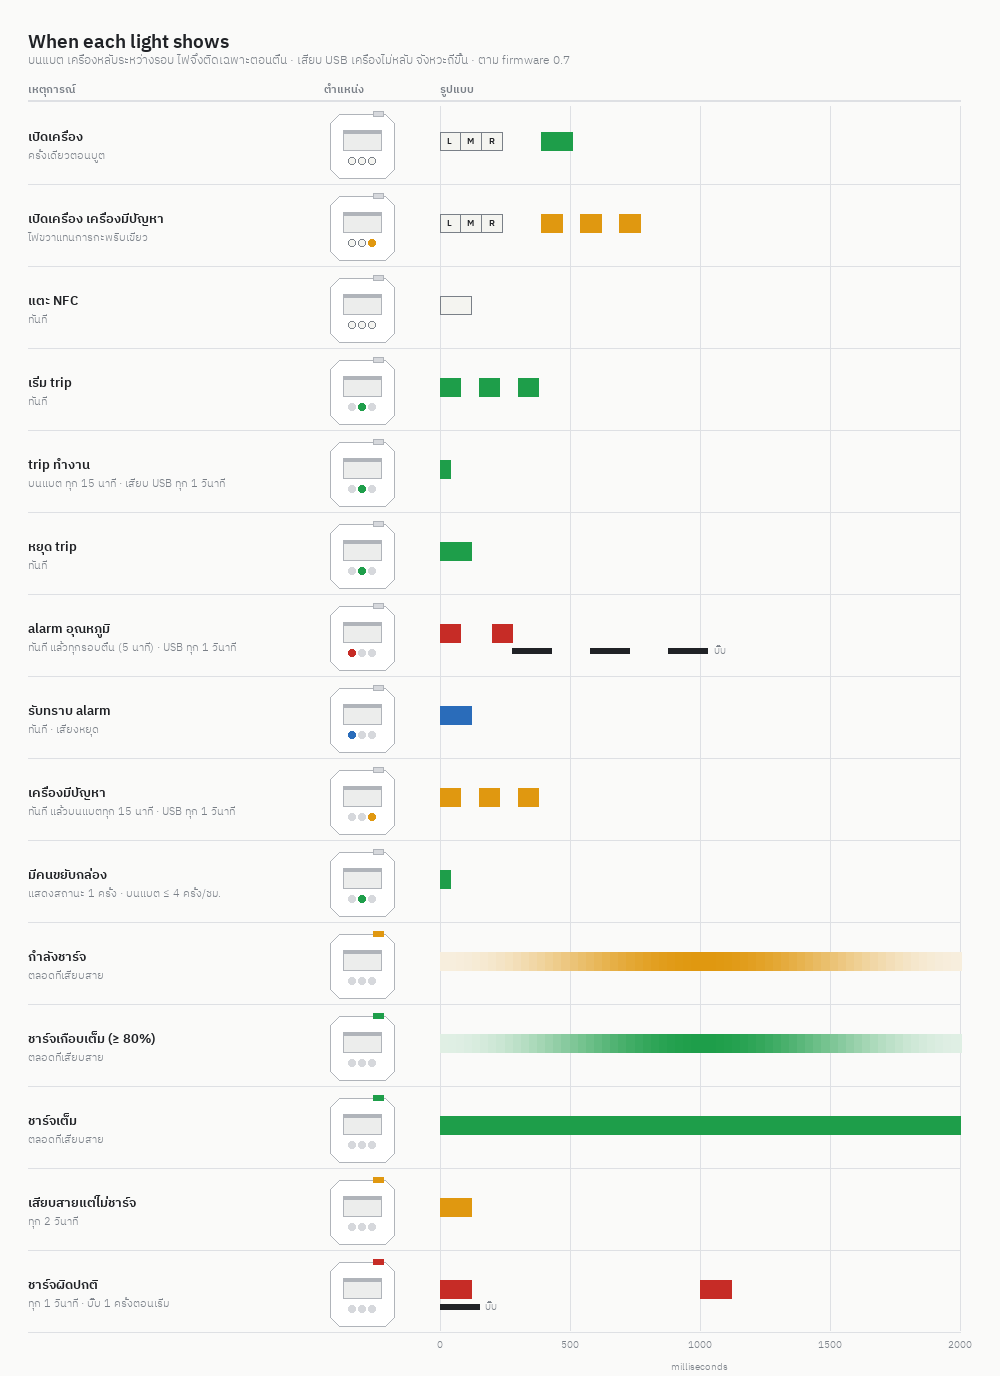
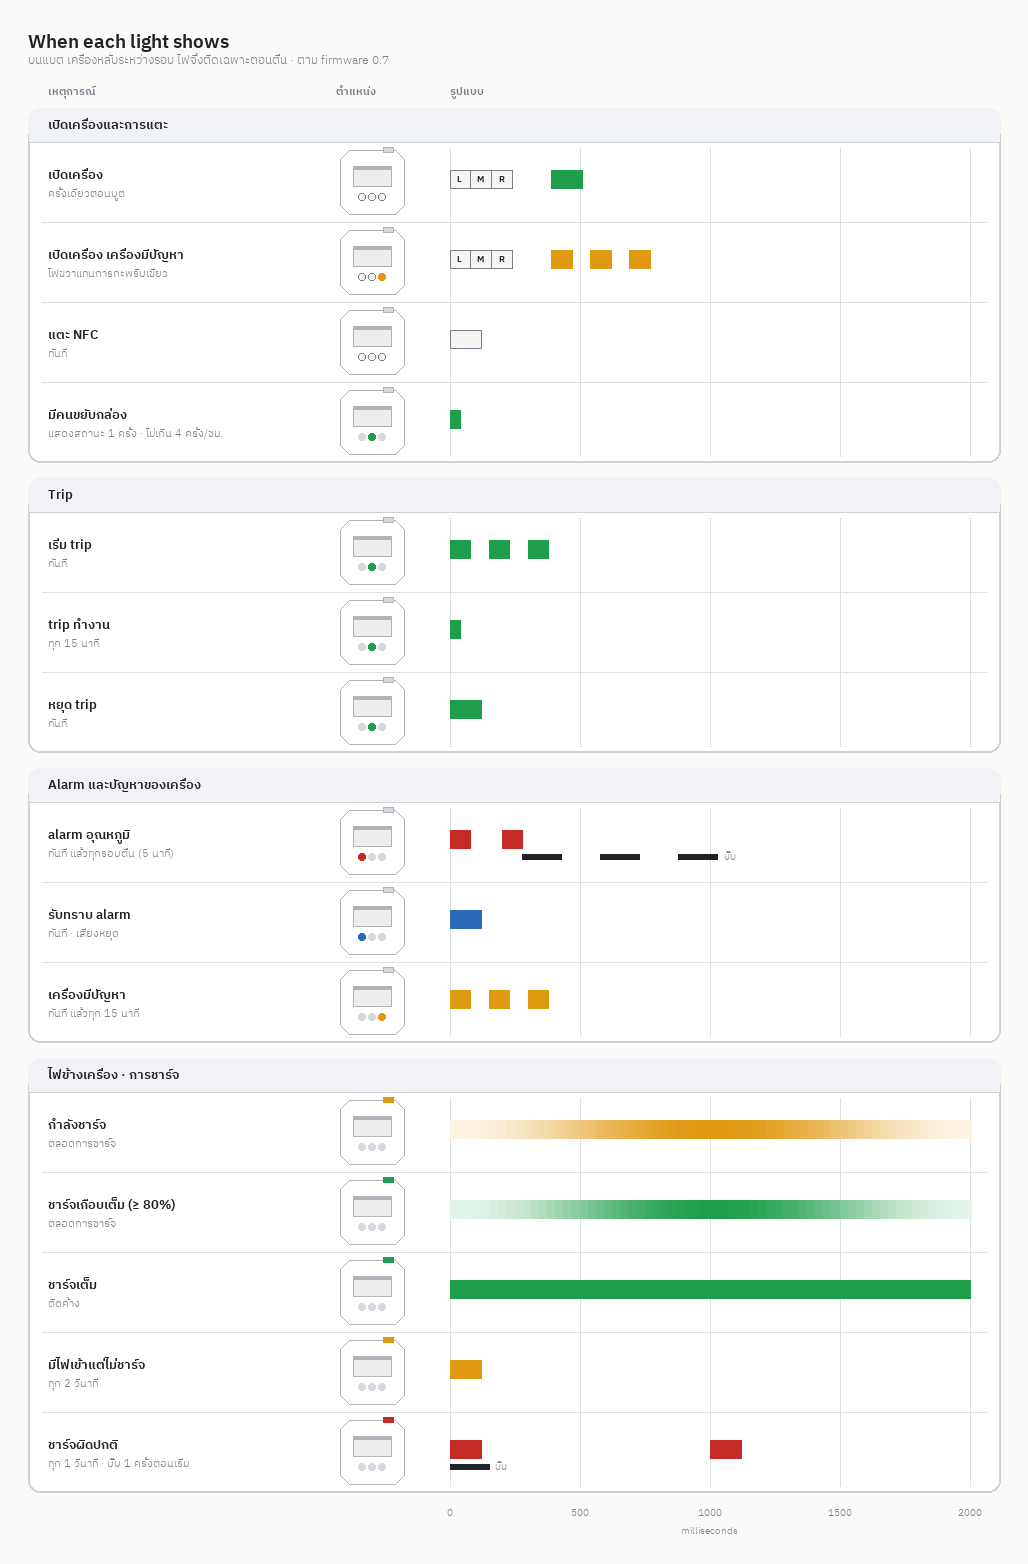
led-mock: led_states in framed sections, battery behaviour only
Four sections -- switching on and taps, trip, alarms and device
problems, side light and charging -- each in its own frame with a
heading. The USB-power rhythms are left out: the chart shows what a
person sees on a box running on its battery.

diff --git a/led-mock/patterns.py b/led-mock/patterns.py
@@ -147,7 +147,7 @@ def led_map():
     return img
 
 
-# One row per event. `lit` is which lights show, by position: L, M, R on
+# Rows grouped into framed sections. `lit` is which lights show, by position: L, M, R on
 # the front, S the side light (on the top edge, towards the right).
 # `bars` is the timeline as (start ms, length ms, colour, mark); `beeps`
 # the buzzer, as (start ms, length ms). From indicate.cpp: boot_cue is the
@@ -162,30 +162,36 @@ def bars(spans, colour):
     return [(t, n, colour, "") for t, n in spans]
 
 
-STATES = [
-    ("เปิดเครื่อง", "ครั้งเดียวตอนบูต", {"L": WHITE, "M": WHITE, "R": WHITE},
-     SWEEP + [(390, 120, GREEN, "")], []),
-    ("เปิดเครื่อง เครื่องมีปัญหา", "ไฟขวาแทนการกะพริบเขียว", {"L": WHITE, "M": WHITE, "R": AMBER},
-     SWEEP + bars([(390 + t, n) for t, n in TRIPLE], AMBER), []),
-    ("แตะ NFC", "ทันที", {"L": WHITE, "M": WHITE, "R": WHITE},
-     [(0, 120, WHITE, "")], []),
-    ("เริ่ม trip", "ทันที", {"M": GREEN}, bars(TRIPLE, GREEN), []),
-    ("trip ทำงาน", "บนแบต ทุก 15 นาที · เสียบ USB ทุก 1 วินาที", {"M": GREEN},
-     [(0, 40, GREEN, "")], []),
-    ("หยุด trip", "ทันที", {"M": GREEN}, [(0, 120, GREEN, "")], []),
-    ("alarm อุณหภูมิ", "ทันที แล้วทุกรอบตื่น (5 นาที) · USB ทุก 1 วินาที", {"L": RED},
-     bars(DOUBLE, RED), [(280, 150), (580, 150), (880, 150)]),
-    ("รับทราบ alarm", "ทันที · เสียงหยุด", {"L": BLUE}, [(0, 120, BLUE, "")], []),
-    ("เครื่องมีปัญหา", "ทันที แล้วบนแบตทุก 15 นาที · USB ทุก 1 วินาที", {"R": AMBER},
-     bars(TRIPLE, AMBER), []),
-    ("มีคนขยับกล่อง", "แสดงสถานะ 1 ครั้ง · บนแบต ≤ 4 ครั้ง/ชม.", {"M": GREEN},
-     [(0, 40, GREEN, "")], []),
-    ("กำลังชาร์จ", "ตลอดที่เสียบสาย", {"S": AMBER}, [(0, 2000, AMBER, "breathe")], []),
-    ("ชาร์จเกือบเต็ม (≥ 80%)", "ตลอดที่เสียบสาย", {"S": GREEN}, [(0, 2000, GREEN, "breathe")], []),
-    ("ชาร์จเต็ม", "ตลอดที่เสียบสาย", {"S": GREEN}, [(0, 2000, GREEN, "")], []),
-    ("เสียบสายแต่ไม่ชาร์จ", "ทุก 2 วินาที", {"S": AMBER}, [(0, 120, AMBER, "")], []),
-    ("ชาร์จผิดปกติ", "ทุก 1 วินาที · บี๊บ 1 ครั้งตอนเริ่ม", {"S": RED},
-     [(0, 120, RED, ""), (1000, 120, RED, "")], [(0, 150)]),
+SECTIONS = [
+    ("เปิดเครื่องและการแตะ", [
+        ("เปิดเครื่อง", "ครั้งเดียวตอนบูต", {"L": WHITE, "M": WHITE, "R": WHITE},
+         SWEEP + [(390, 120, GREEN, "")], []),
+        ("เปิดเครื่อง เครื่องมีปัญหา", "ไฟขวาแทนการกะพริบเขียว", {"L": WHITE, "M": WHITE, "R": AMBER},
+         SWEEP + bars([(390 + t, n) for t, n in TRIPLE], AMBER), []),
+        ("แตะ NFC", "ทันที", {"L": WHITE, "M": WHITE, "R": WHITE},
+         [(0, 120, WHITE, "")], []),
+        ("มีคนขยับกล่อง", "แสดงสถานะ 1 ครั้ง · ไม่เกิน 4 ครั้ง/ชม.", {"M": GREEN},
+         [(0, 40, GREEN, "")], []),
+    ]),
+    ("Trip", [
+        ("เริ่ม trip", "ทันที", {"M": GREEN}, bars(TRIPLE, GREEN), []),
+        ("trip ทำงาน", "ทุก 15 นาที", {"M": GREEN}, [(0, 40, GREEN, "")], []),
+        ("หยุด trip", "ทันที", {"M": GREEN}, [(0, 120, GREEN, "")], []),
+    ]),
+    ("Alarm และปัญหาของเครื่อง", [
+        ("alarm อุณหภูมิ", "ทันที แล้วทุกรอบตื่น (5 นาที)", {"L": RED},
+         bars(DOUBLE, RED), [(280, 150), (580, 150), (880, 150)]),
+        ("รับทราบ alarm", "ทันที · เสียงหยุด", {"L": BLUE}, [(0, 120, BLUE, "")], []),
+        ("เครื่องมีปัญหา", "ทันที แล้วทุก 15 นาที", {"R": AMBER}, bars(TRIPLE, AMBER), []),
+    ]),
+    ("ไฟข้างเครื่อง · การชาร์จ", [
+        ("กำลังชาร์จ", "ตลอดการชาร์จ", {"S": AMBER}, [(0, 2000, AMBER, "breathe")], []),
+        ("ชาร์จเกือบเต็ม (≥ 80%)", "ตลอดการชาร์จ", {"S": GREEN}, [(0, 2000, GREEN, "breathe")], []),
+        ("ชาร์จเต็ม", "ติดค้าง", {"S": GREEN}, [(0, 2000, GREEN, "")], []),
+        ("มีไฟเข้าแต่ไม่ชาร์จ", "ทุก 2 วินาที", {"S": AMBER}, [(0, 120, AMBER, "")], []),
+        ("ชาร์จผิดปกติ", "ทุก 1 วินาที · บี๊บ 1 ครั้งตอนเริ่ม", {"S": RED},
+         [(0, 120, RED, ""), (1000, 120, RED, "")], [(0, 150)]),
+    ]),
 ]
 
 UNLIT = (214, 216, 220)
@@ -214,58 +220,72 @@ def device(d, x, y, lit):
 
 def states():
     SPAN_S = 2000
-    ev_x, dev_x, tl_x, tl_w = 28, 330, 440, 520
-    row_h, top = 82, 106
-    h = top + row_h * len(STATES) + 40
-    img = Image.new("RGB", (tl_x + tl_w + 40, h), PAPER)
+    x_l, x_r = 28, 1000              # the frames
+    ev_x, dev_x, tl_x, tl_w = 48, 340, 450, 520
+    row_h, head_h, gap = 80, 34, 16
+    n_rows = sum(len(rows) for _, rows in SECTIONS)
+    top = 108
+    h = top + n_rows * row_h + len(SECTIONS) * (head_h + gap) + 56
+    img = Image.new("RGB", (x_r + 28, h), PAPER)
     d = ImageDraw.Draw(img)
     d.text((28, 26), "When each light shows", font=font("SemiBold", 19), fill=INK)
-    d.text((28, 50), "บนแบต เครื่องหลับระหว่างรอบ ไฟจึงติดเฉพาะตอนตื่น · เสียบ USB เครื่องไม่หลับ จังหวะถี่ขึ้น · ตาม firmware 0.7",
+    d.text((28, 50), "บนแบต เครื่องหลับระหว่างรอบ ไฟจึงติดเฉพาะตอนตื่น · ตาม firmware 0.7",
            font=font("Light", 12), fill=MUTED)
-    for x, t in ((ev_x, "เหตุการณ์"), (dev_x - 6, "ตำแหน่ง"), (tl_x, "รูปแบบ")):
-        d.text((x, 80), t, font=font("SemiBold", 11), fill=MUTED)
-    d.line([(28, 100), (tl_x + tl_w, 100)], fill=GRID, width=2)
+    for x, t in ((ev_x, "เหตุการณ์"), (dev_x - 4, "ตำแหน่ง"), (tl_x, "รูปแบบ")):
+        d.text((x, 82), t, font=font("SemiBold", 11), fill=MUTED)
+
+    y = top
+    for title, rows in SECTIONS:
+        box_h = head_h + len(rows) * row_h
+        d.rounded_rectangle([(x_l, y), (x_r, y + box_h)], 12, fill=(255, 255, 255),
+                            outline=(206, 209, 214), width=2)
+        d.rounded_rectangle([(x_l, y), (x_r, y + head_h)], 12, fill=(240, 242, 245))
+        d.rectangle([(x_l + 1, y + head_h - 12), (x_r - 1, y + head_h)], fill=(240, 242, 245))
+        d.line([(x_l, y + head_h), (x_r, y + head_h)], fill=(206, 209, 214), width=1)
+        d.text((ev_x, y + head_h / 2), title, font=font("SemiBold", 13), fill=INK, anchor="lm")
+        # time grid inside the frame
+        for ms in range(0, SPAN_S + 1, 500):
+            x = tl_x + tl_w * ms / SPAN_S
+            d.line([(x, y + head_h + 6), (x, y + box_h - 6)], fill=GRID)
+        ry = y + head_h
+        for i, (ev, when, lit, seq, beeps) in enumerate(rows):
+            if i:
+                d.line([(x_l + 14, ry), (x_r - 14, ry)], fill=GRID)
+            d.text((ev_x, ry + 22), ev, font=font("SemiBold", 13), fill=INK)
+            d.text((ev_x, ry + 42), when, font=font("Light", 11), fill=MUTED)
+            device(d, dev_x, ry + 8, lit)
+            by = ry + 28
+            for t0, n, col, mark in seq:
+                x0 = tl_x + tl_w * t0 / SPAN_S
+                x1 = tl_x + tl_w * min(t0 + n, SPAN_S) / SPAN_S
+                if mark == "breathe":
+                    steps = 64
+                    for s_ in range(steps):
+                        level = 0.12 + 0.88 * 0.5 * (1 - math.cos(2 * math.pi * s_ / steps))
+                        bx0 = x0 + (x1 - x0) * s_ / steps
+                        bx1 = x0 + (x1 - x0) * (s_ + 1) / steps + 1
+                        bar = tuple(round(p + (255 - p) * (1 - level)) for p in col)
+                        d.rectangle([(bx0, by), (bx1, by + 18)], fill=bar)
+                else:
+                    d.rectangle([(x0, by), (max(x1, x0 + 2), by + 18)], fill=col,
+                                outline=MUTED if col is WHITE else None)
+                    if mark:
+                        d.text(((x0 + x1) / 2, by + 9), mark, font=font("SemiBold", 9),
+                               fill=INK, anchor="mm")
+            for t0, n in beeps:
+                x0 = tl_x + tl_w * t0 / SPAN_S
+                x1 = tl_x + tl_w * (t0 + n) / SPAN_S
+                d.rectangle([(x0, by + 24), (x1, by + 29)], fill=INK)
+            if beeps:
+                x_end = tl_x + tl_w * (beeps[-1][0] + beeps[-1][1]) / SPAN_S
+                d.text((x_end + 6, by + 27), "บี๊บ", font=font("Light", 10), fill=MUTED, anchor="lm")
+            ry += row_h
+        y += box_h + gap
 
     for ms in range(0, SPAN_S + 1, 500):
         x = tl_x + tl_w * ms / SPAN_S
-        d.line([(x, top), (x, top + row_h * len(STATES) - 6)], fill=GRID)
-        d.text((x, top + row_h * len(STATES)), f"{ms}", font=font("Light", 10),
-               fill=MUTED, anchor="ma")
-    d.text((tl_x + tl_w / 2, h - 18), "milliseconds", font=font("Light", 10),
-           fill=MUTED, anchor="ma")
-
-    for i, (ev, when, lit, seq, beeps) in enumerate(STATES):
-        y = top + i * row_h
-        d.text((ev_x, y + 20), ev, font=font("SemiBold", 13), fill=INK)
-        d.text((ev_x, y + 40), when, font=font("Light", 11), fill=MUTED)
-        device(d, dev_x, y + 8, lit)
-        by = y + 26                                  # the bar's top
-        for t0, n, col, mark in seq:
-            x0 = tl_x + tl_w * t0 / SPAN_S
-            x1 = tl_x + tl_w * min(t0 + n, SPAN_S) / SPAN_S
-            if mark == "breathe":
-                steps = 64
-                for s_ in range(steps):
-                    level = 0.12 + 0.88 * 0.5 * (1 - math.cos(2 * math.pi * s_ / steps))
-                    bx0 = x0 + (x1 - x0) * s_ / steps
-                    bx1 = x0 + (x1 - x0) * (s_ + 1) / steps + 1
-                    bar = tuple(round(p + (PAPER[j] - p) * (1 - level)) for j, p in enumerate(col))
-                    d.rectangle([(bx0, by), (bx1, by + 18)], fill=bar)
-            else:
-                d.rectangle([(x0, by), (max(x1, x0 + 2), by + 18)], fill=col,
-                            outline=MUTED if col is WHITE else None)
-                if mark:
-                    d.text(((x0 + x1) / 2, by + 9), mark, font=font("SemiBold", 9),
-                           fill=INK, anchor="mm")
-        for t0, n in beeps:                          # the buzzer, under the bar
-            x0 = tl_x + tl_w * t0 / SPAN_S
-            x1 = tl_x + tl_w * (t0 + n) / SPAN_S
-            d.rectangle([(x0, by + 24), (x1, by + 29)], fill=INK)
-        if beeps:
-            x_end = tl_x + tl_w * (beeps[-1][0] + beeps[-1][1]) / SPAN_S
-            d.text((x_end + 6, by + 27), "บี๊บ", font=font("Light", 10), fill=MUTED, anchor="lm")
-        d.line([(28, y + row_h - 4), (tl_x + tl_w, y + row_h - 4)], fill=GRID)
-
+        d.text((x, y - 4), f"{ms}", font=font("Light", 10), fill=MUTED, anchor="ma")
+    d.text((tl_x + tl_w / 2, y + 14), "milliseconds", font=font("Light", 10), fill=MUTED, anchor="ma")
     img.save(OUT / "led_states.png")
     return img
 
